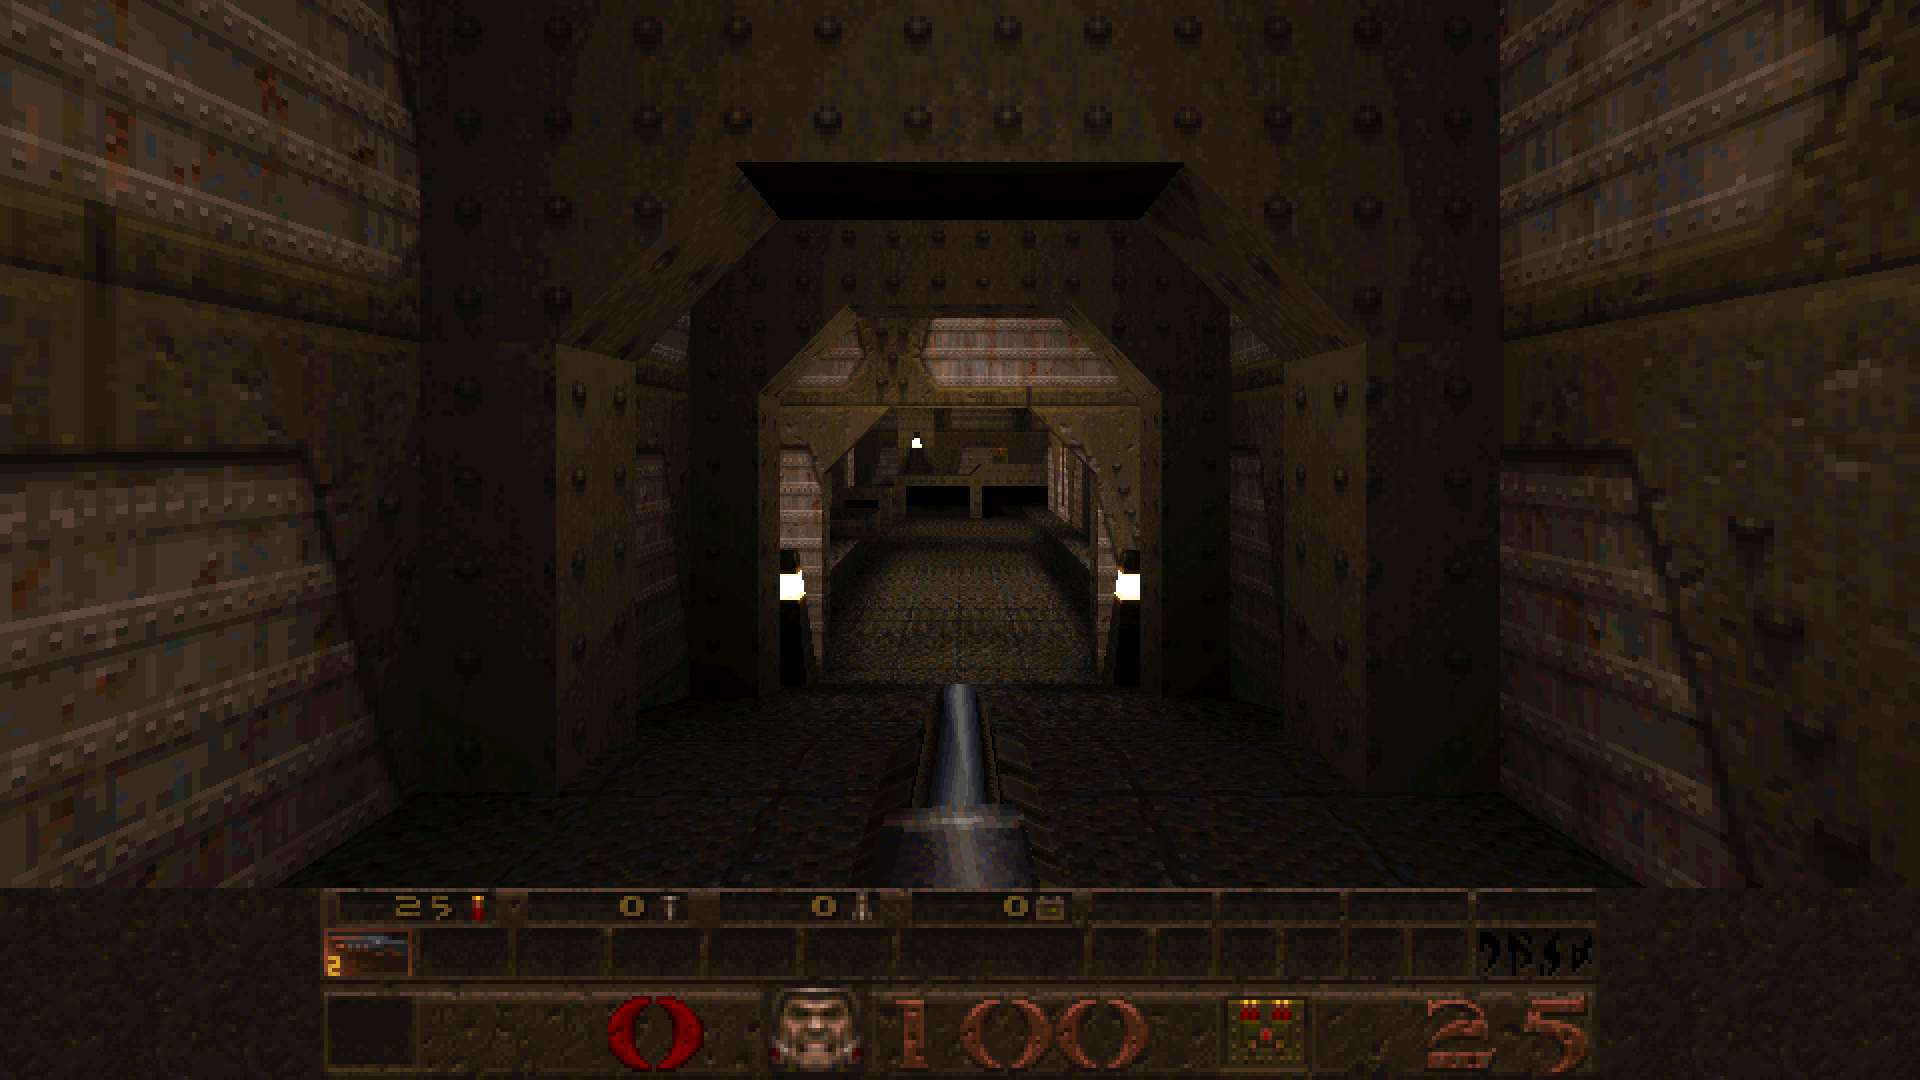
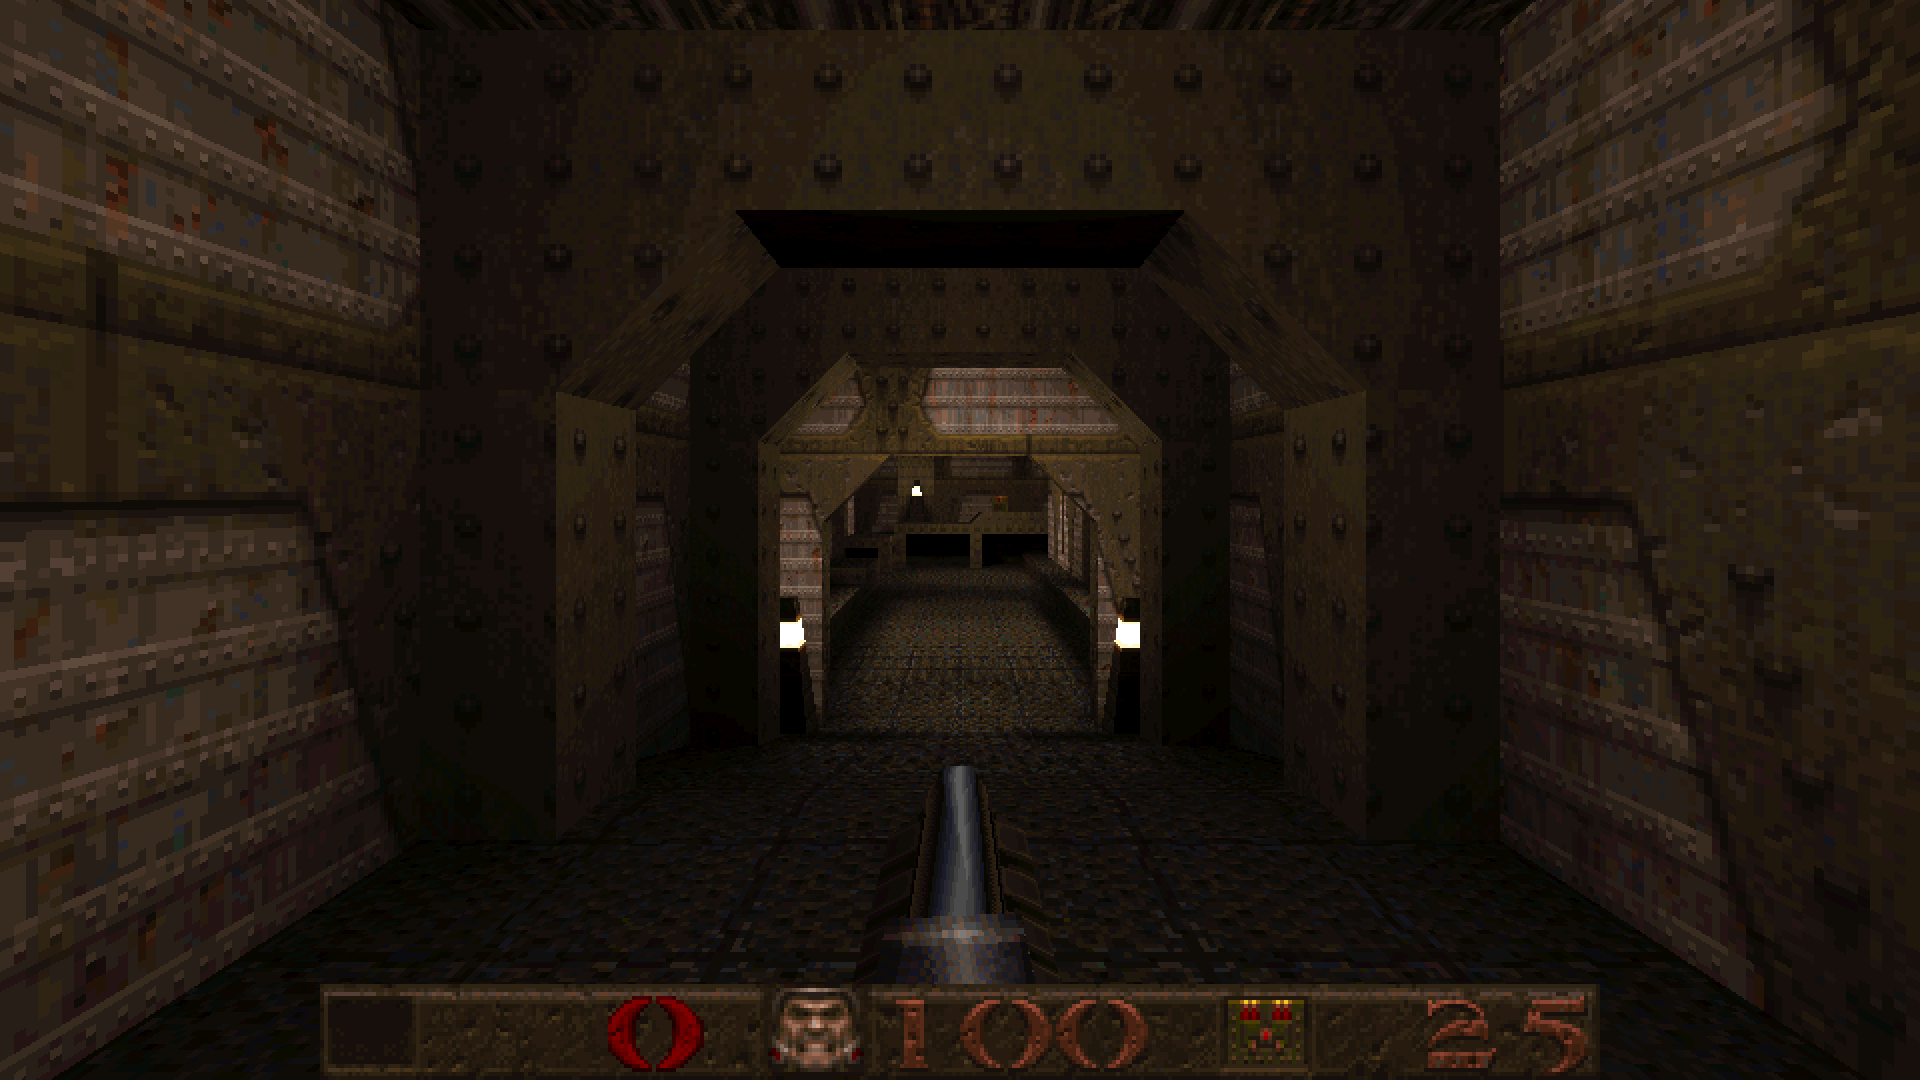
README: the 2026 still at the new defaults (Screen size 110, perspective span 8)
Regenerated once, after both defaults landed, with
`quaketool shot quake-data/ID1/PAK0.PAK maps/e1m1.bsp out.ppm --res 960x540
--zoom 2 --video modern --scaled2d 1 --sbaroverlay 1` (the command is now in the
README; shot's Screen size follows --sbaroverlay and --video modern carries the
profile's span, so no extra flags). The status bar alone is drawn, no inventory
bar. Reproduced the old still's command first: its status bar matches pixel for
pixel at --viewsize 100; the rest differs from today's engine, as it predates
the later renderer changes.

diff --git a/README.md b/README.md
@@ -15,7 +15,9 @@ not a fallback).
 | ![E1M1 in the Classic profile](screenshots/classic-e1m1.png) | ![E1M1 in the 2026 profile](screenshots/2026-e1m1.png) |
 | 320x200 in a 4:3 frame, id's status bar, id's 72 fps cap | the window's shape and size in whole pixels (here 960x540 shown at 2x), no frame-rate cap |
 
-Both are stills from `quaketool shot`, so the 2026 crosshair isn't drawn.
+Both are stills from `quaketool shot`, so the 2026 crosshair isn't drawn. The 2026 one is
+`quaketool shot quake-data/ID1/PAK0.PAK maps/e1m1.bsp out.ppm --res 960x540 --zoom 2 --video modern --scaled2d 1 --sbaroverlay 1`,
+which draws the profile's defaults: Screen size 110 (no inventory bar) and perspective every 8 pixels.
 
 id Software's *Quake* (1996), ported to Rust from the WinQuake C source, with only the
 standard library and no `unsafe` code. With every extra switched off it is id's game,
